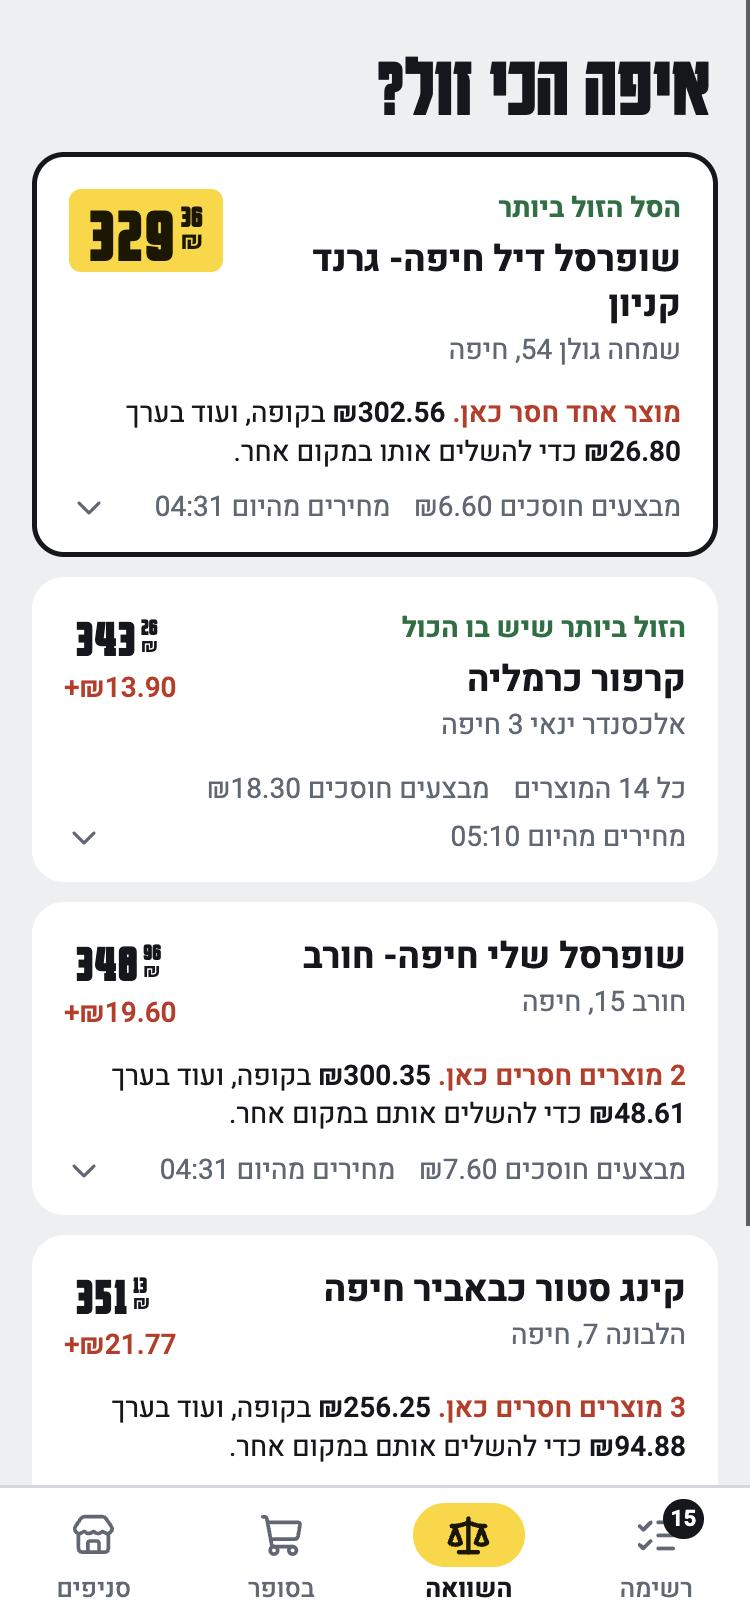
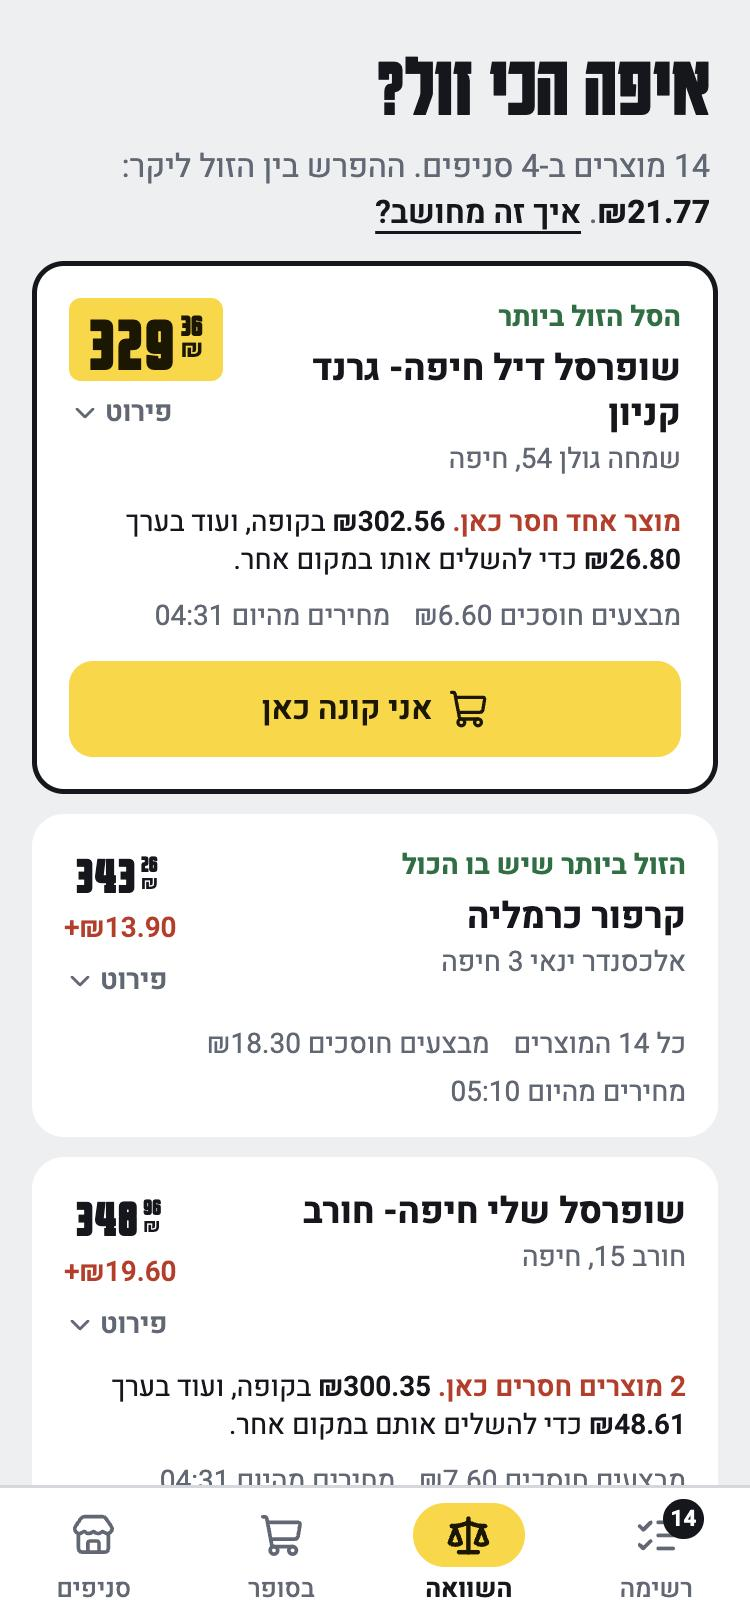
Suggest the likeliest product for free-text list lines
A pasted or typed line shows the best-matching product with its price;
one tap confirms it, another opens the search. Also refreshes the README
screenshots and skips redeploys for documentation-only changes.

Changed region(s): [[0.0307, 0.0, 1.0, 0.9236], [0.092, 0.5234, 0.2453, 0.6773]]

diff --git a/src/screens/ListScreen.tsx b/src/screens/ListScreen.tsx
@@ -2,9 +2,10 @@ import { ChevronLeft, ClipboardList, ScanBarcode, Search, Share2, Trash2 } from 
 import { useMemo } from 'react';
 import { InstallHint } from '../components/InstallHint';
 import { Button, DealChip, IconButton, Price, PriceTag, QtyBadge, Stepper } from '../components/ui';
+import { searchProducts } from '../data/catalog';
 import { changeQty, clearListWithUndo, shareList } from '../lib/actions';
-import { promoLabel } from '../lib/pricing';
-import { qtyUnit, storeTitle, useComparison, useStoreLookup } from '../lib/view';
+import { costFor, promoLabel } from '../lib/pricing';
+import { qtyUnit, storeTitle, useComparison, usePricingOptions, useStoreLookup } from '../lib/view';
 import { stepFor, useApp } from '../state/app';
 import { useData } from '../state/data';
 import { useNav } from '../state/nav';
@@ -81,9 +82,13 @@ export function ListScreen() {
         <>
           <BestStoreBanner />
           <ul className="perforated mx-4 mt-3 rounded-2xl bg-surface">
-            {items.map((item) => (
-              <ListRow key={item.id} item={item} prices={prices.get(item.id)} />
-            ))}
+            {items.map((item) =>
+              item.pids.length === 0 ? (
+                <UnmatchedRow key={item.id} item={item} />
+              ) : (
+                <ListRow key={item.id} item={item} prices={prices.get(item.id)} />
+              ),
+            )}
           </ul>
 
           <div className="mx-4 mt-2 flex">
@@ -192,25 +197,72 @@ function BestStoreBanner() {
   );
 }
 
+/**
+ * A line typed or pasted as free text. It cannot be priced until it points at a product, so the
+ * row offers the likeliest one: a single tap confirms it.
+ */
+function UnmatchedRow({ item }: { item: ListItem }) {
+  const open = useNav((s) => s.open);
+  const catalog = useData((s) => s.catalog);
+  const opts = usePricingOptions();
+  const guess = useMemo(() => searchProducts(catalog, item.label, { limit: 1 })[0], [catalog, item.label]);
+  const guessPrice = useMemo(
+    () => (guess ? Math.min(...[...guess.offers.values()].map((o) => costFor(o, 1, guess.weighted, opts).total)) : 0),
+    [guess, opts],
+  );
+  const choose = () => open({ kind: 'search', mode: { kind: 'match', itemId: item.id, query: item.label } });
+
+  return (
+    <li className="py-3 ps-4 pe-3">
+      <button type="button" className="block w-full text-start" onClick={() => open({ kind: 'item', itemId: item.id })}>
+        <span className="line-clamp-2 leading-snug font-medium">
+          <QtyBadge qty={item.qty} />
+          {item.label}
+        </span>
+        <span className="mt-0.5 block text-sm text-alert">
+          {guess ? 'כדי לקבל מחיר, אשר לאיזה מוצר התכוונת' : 'כדי לקבל מחיר צריך לבחור מוצר מסוים'}
+        </span>
+      </button>
+      {guess ? (
+        <div className="mt-2 rounded-xl bg-sunken p-3">
+          <p className="line-clamp-2 text-sm leading-snug">
+            {guess.name} <Price value={guessPrice} className="text-ink" />
+          </p>
+          <div className="mt-2 flex gap-2">
+            <Button
+              variant="tag"
+              className="min-h-10 flex-1 rounded-full px-3 text-sm"
+              onClick={() => useApp.getState().attachProduct(item.id, guess, true)}
+            >
+              כן, זה המוצר
+            </Button>
+            <Button variant="outline" className="min-h-10 flex-1 rounded-full px-3 text-sm" onClick={choose}>
+              מוצר אחר
+            </Button>
+          </div>
+        </div>
+      ) : (
+        <Button variant="tag" className="mt-2 min-h-10 rounded-full px-4 text-sm" onClick={choose}>
+          בחר מוצר
+        </Button>
+      )}
+    </li>
+  );
+}
+
 function ListRow({ item, prices }: { item: ListItem; prices: RowPrices | undefined }) {
   const open = useNav((s) => s.open);
   const product = useData((s) => (item.pids[0] ? s.catalog.products.get(item.pids[0]) : undefined));
   const storeCount = useData((s) => s.catalog.storeIds.length);
   const weighted = product?.weighted ?? false;
-  const unmatched = item.pids.length === 0;
   const priced = prices && Number.isFinite(prices.min);
 
   return (
     <li className="flex items-center gap-3 py-3 ps-4 pe-3">
       <button type="button" className="min-w-0 flex-1 text-start" onClick={() => open({ kind: 'item', itemId: item.id })}>
-        <span className="line-clamp-2 leading-snug font-medium">
-          {unmatched ? <QtyBadge qty={item.qty} /> : null}
-          {item.label}
-        </span>
+        <span className="line-clamp-2 leading-snug font-medium">{item.label}</span>
         <span className="mt-1 flex flex-wrap items-center gap-x-2 gap-y-1 text-sm">
-          {unmatched ? (
-            <span className="text-alert">עוד לא נבחר מוצר</span>
-          ) : priced ? (
+          {priced ? (
             <>
               <span className="text-muted">
                 <Price value={prices.min} className="text-ink" />
@@ -233,22 +285,12 @@ function ListRow({ item, prices }: { item: ListItem; prices: RowPrices | undefin
           )}
         </span>
       </button>
-      {unmatched ? (
-        <Button
-          variant="tag"
-          className="min-h-10 shrink-0 rounded-full px-4 text-sm"
-          onClick={() => open({ kind: 'search', mode: { kind: 'match', itemId: item.id, query: item.label } })}
-        >
-          בחר מוצר
-        </Button>
-      ) : (
-        <Stepper
-          value={item.qty}
-          step={stepFor(weighted)}
-          unit={qtyUnit(weighted)}
-          onChange={(q) => changeQty(item.id, q)}
-        />
-      )}
+      <Stepper
+        value={item.qty}
+        step={stepFor(weighted)}
+        unit={qtyUnit(weighted)}
+        onChange={(q) => changeQty(item.id, q)}
+      />
     </li>
   );
 }
